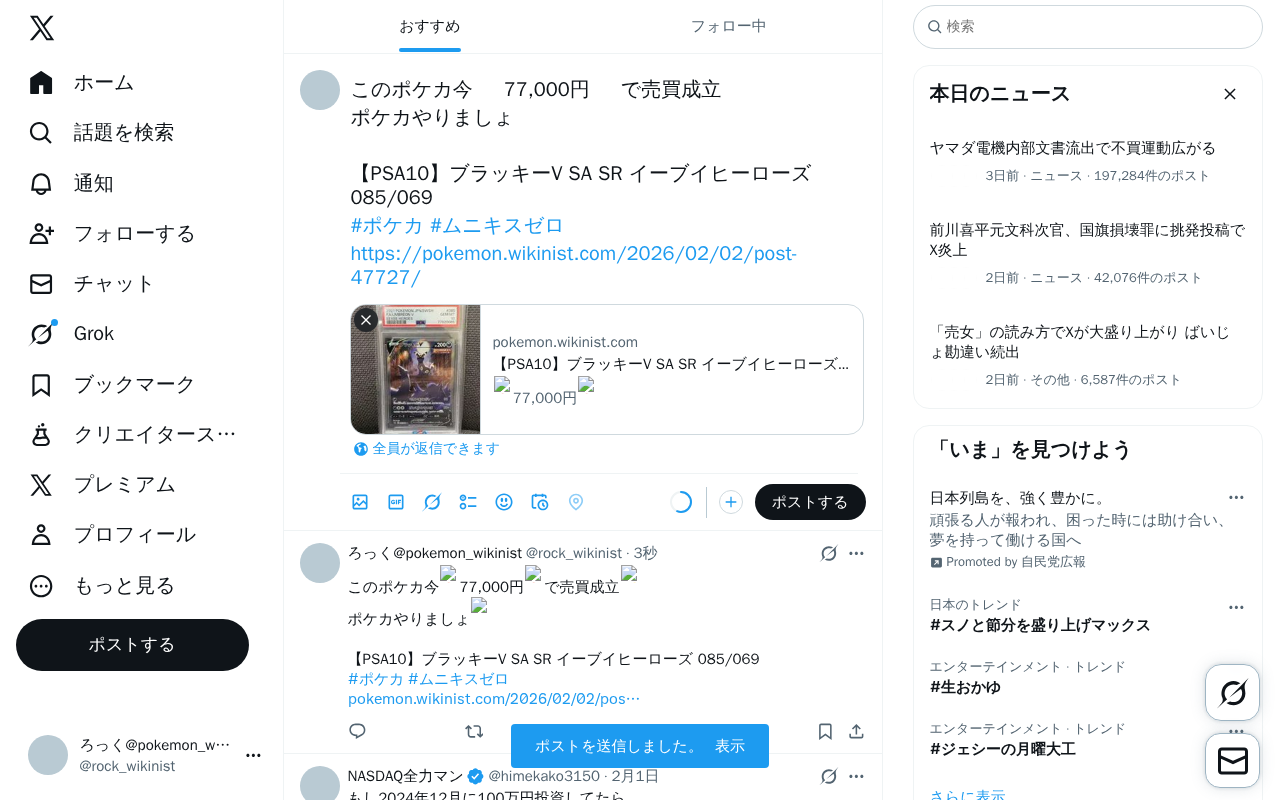
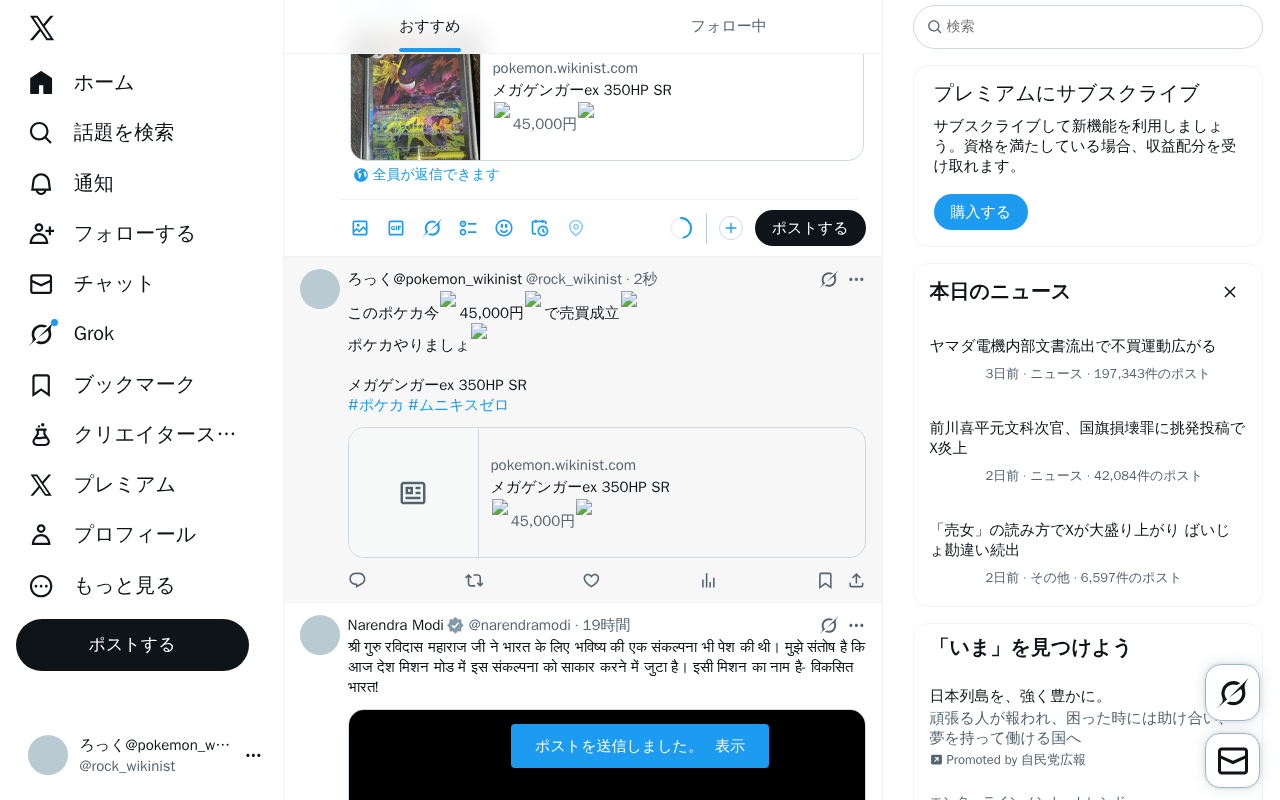
update system data

diff --git a/content/posts/test-pokemon-20260202-200242.md b/content/posts/test-pokemon-20260202-200242.md
@@ -1,0 +1,38 @@
+---
+title: "メガゲンガーex 350HP SR"
+date: 2026-02-02T20:02:42+09:00
+description: "🔥45,000円🔥 メルカリで「メガゲンガーex 350HP SR」が販売中！"
+amazon_url: "https://jp.mercari.com/item/m72175337389?afid=1391290753"
+robotsNoIndex: true
+categories: ["ポケモン"]
+tags: ["ゲンガー", "3万円以上"]
+cover:
+  image: "https://static.mercdn.net/thumb/item/webp/m72175337389_1.jpg?1770029396"
+  hiddenInList: true
+  hiddenInSingle: true
+---
+
+<div class="image-and-buttons">
+    <div class="image-area" style="margin-bottom: 20px; text-align: center;">
+        <a href="https://jp.mercari.com/item/m72175337389?afid=1391290753" target="_blank" rel="nofollow sponsored noopener noreferrer">
+            <img src="https://static.mercdn.net/thumb/item/webp/m72175337389_1.jpg?1770029396" alt="45,000" style="max-width: 100%; border-radius: 8px; border: 1px solid #ddd;" />
+        </a>
+        <br><span style="font-size:1.5em;color:red;font-weight:bold;">🔥45,000円🔥</span>
+    </div>
+    <div class="link-buttons">
+        <a href="https://jp.mercari.com/item/m72175337389?afid=1391290753" target="_blank" rel="nofollow sponsored noopener noreferrer">
+            💎 商品状態を見る
+        </a>
+        <a href="https://jp.mercari.com/search?afid=1391290753&category_id=1289&keyword=%E3%83%A1%E3%82%AC%E3%82%B2%E3%83%B3%E3%82%AC%E3%83%BCex%20350HP%20SR" target="_blank" rel="nofollow sponsored noopener noreferrer">
+            🔍 類似商品を見る
+        </a>
+        <a href="https://jp.mercari.com/search?afid=1391290753&brand_id=&category_id=1289&color_id=&item_condition_id=&item_types=&keyword=%E3%83%A1%E3%82%AC%E3%82%B2%E3%83%B3%E3%82%AC%E3%83%BCex%20350HP%20SR&order=desc&shipping_method=&shipping_payer_id=&size_id=&sort=created_time&status=sold_out%2Ctrading" target="_blank" rel="nofollow sponsored noopener noreferrer">
+            📈 価格推移・履歴を見る
+        </a>
+    </div>
+</div>
+
+<p style="font-size:1.0em;color:#555;line-height:1.6;">
+「メガゲンガーex 350HP SR」はメルカリに出品されました！<br>
+最新のポケモン情報は当サイトで随時更新中です。
+</p>
